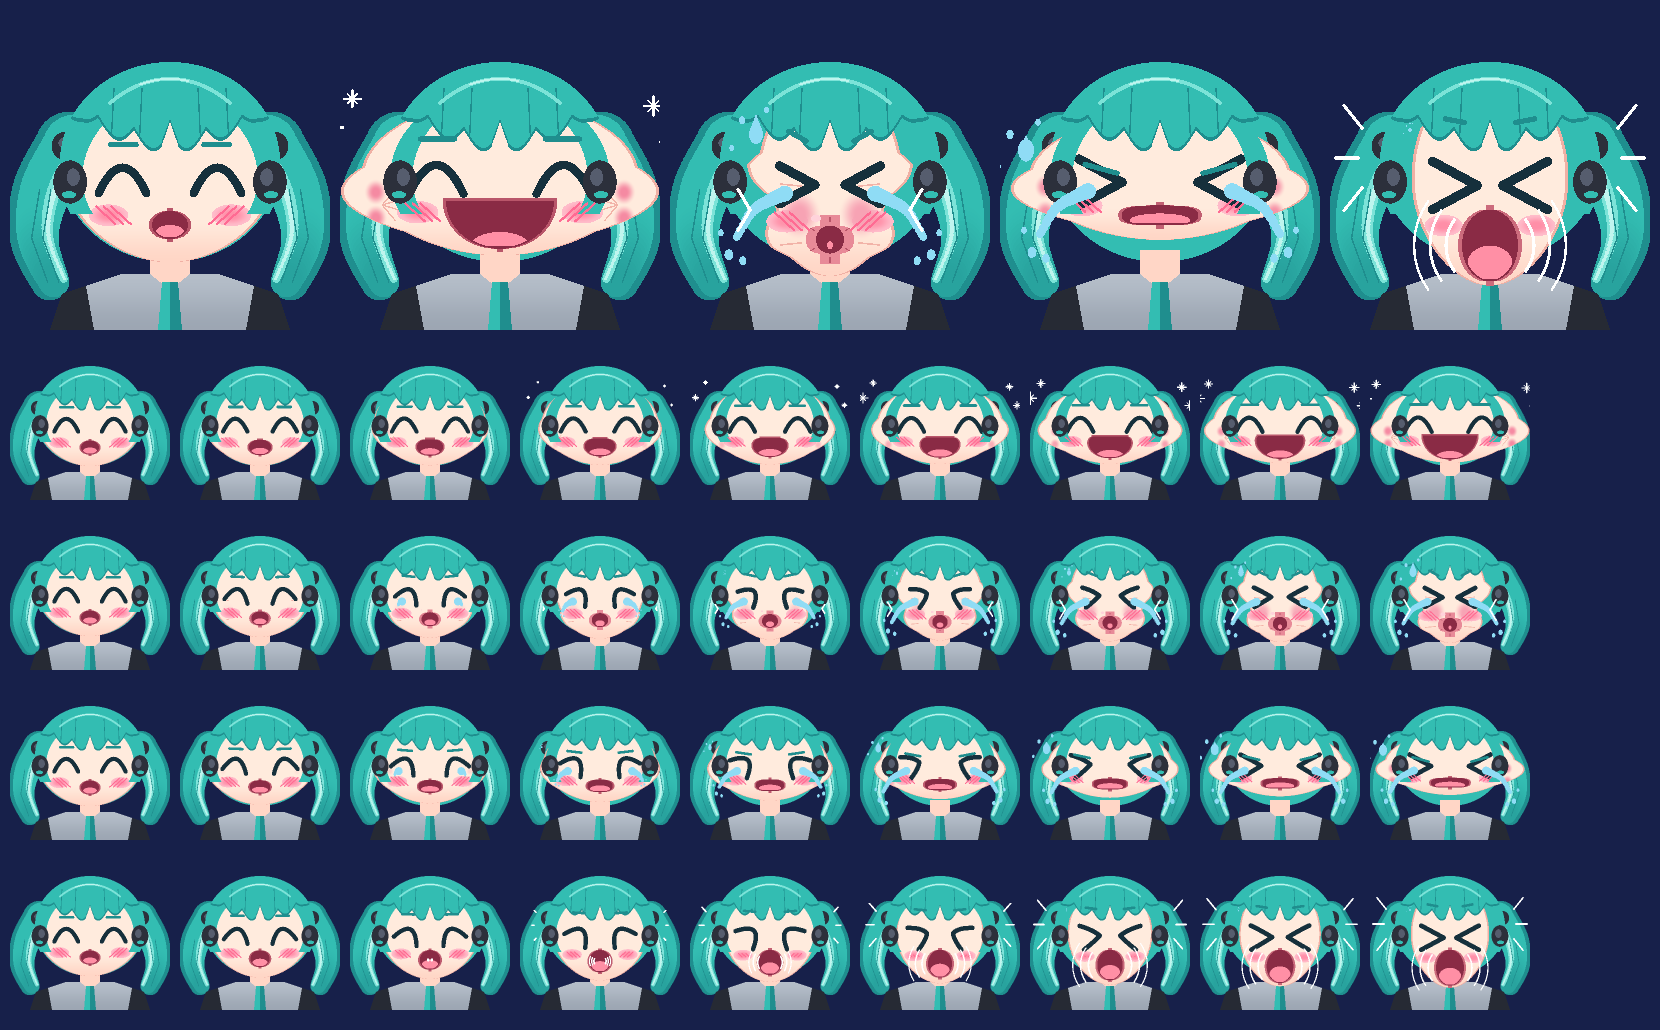
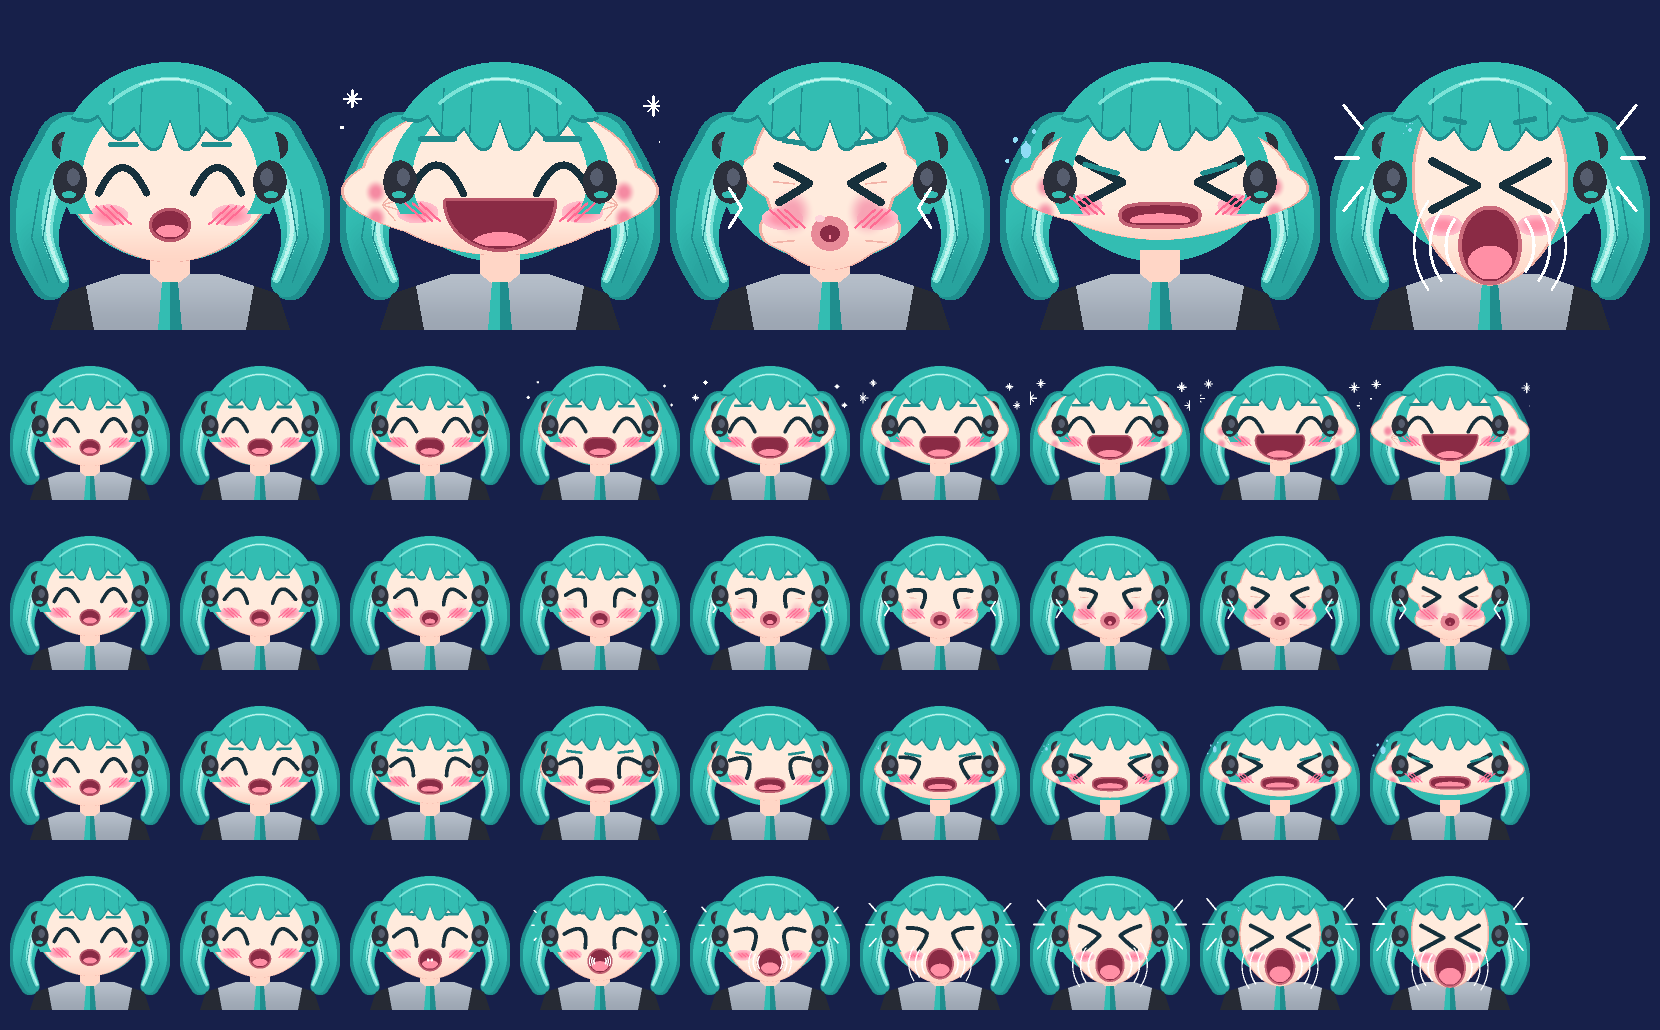
ぶにゅっとミク build 9: 押さえる表情(う・え)を泣かせず、可愛く
- う・え から涙を外す(泣くまで押し込まない)。う: 顔の細さを控えめに、目はやわらかいくの字、赤面の斜線、ちゅっとした丸い唇(つや付き)
- 唇の輪を、口の形を全方向へ均等にふくらませた形に修正(厚い唇が上下に棒状にのびて「＋」に見えていた)
- 涙の機能自体は残す(デザインで指定すれば出る)。本編のデザインでは う・え は涙なし(テストで固定)
- 唇の輪のテストを追加、デザインシート・README更新(テスト50件)

Claude-Session: https://claude.ai/code/session_01MXw4RQN7Z5c2dP9V8ZrWtj

diff --git a/bunyutto-miku/app/src/face.js b/bunyutto-miku/app/src/face.js
@@ -606,8 +606,18 @@ export class MikuFace {
     };
     // くちびる: すぼめるほど太く明るい色に
     const ring = lerpC(C.lipD, C.lip, Math.min(1, (g.pad - M.ringBase) / M.ringRange));
-    r.rows(top - g.pad, my + h / 2 + g.pad, shape(g.pad), ring);
-    r.rows(top, my + h / 2, shape(0), C.mouthIn);
+    // 唇の輪: 口の形を全方向へ均等に pad だけふくらませた形(厚い唇でも、上下に棒状にのびたりしない)
+    const base = shape(0);
+    const OFFS = 16;
+    for (let k = 0; k < OFFS; k++) {
+      const a = (k / OFFS) * Math.PI * 2;
+      const ox = Math.cos(a) * g.pad, oy = Math.sin(a) * g.pad;
+      r.rows(top + oy, my + h / 2 + oy, (yc) => {
+        const rr = base(yc - oy);
+        return rr ? [rr[0] + ox, rr[1] + ox] : null;
+      }, ring);
+    }
+    r.rows(top, my + h / 2, base, C.mouthIn);
     // すぼめた唇の縦じわ(放射状の線)と、ぷるんとしたつや
     if (g.wrinkle > 0.05) {
       const Wr = M.wrinkle;

diff --git a/bunyutto-miku/app/src/game.js b/bunyutto-miku/app/src/game.js
@@ -15,7 +15,7 @@ import { SONGS, dataUrl } from "./songs.js";
 import { DemoSource } from "./demo.js";
 import { TextAliveSource } from "./textalive.js";
 
-export const BUILD = 8;
+export const BUILD = 9;
 
 /* 母音ごとの色。ノーツ・ガイド・結果で共通 */
 const VCOL = { a: "#FF7EB6", i: "#FFC93C", u: "#9B7BFF", e: "#38D6CB", o: "#FF6F5E" };

diff --git a/bunyutto-miku/app/index.html b/bunyutto-miku/app/index.html
@@ -111,7 +111,7 @@
   </div>
 </div>
 
-<script>window.BUNYU_BUILD = 8;</script>
+<script>window.BUNYU_BUILD = 9;</script>
 <!-- CDN 依存を避けるため検証済みバージョンを同梱 -->
 <script src="./vendor/axios.min.js"></script>
 <script src="./vendor/textalive-app-api-0.5.2.js"></script>

diff --git a/bunyutto-miku/design/README.md b/bunyutto-miku/design/README.md
@@ -34,6 +34,7 @@
 - **怖く見える要素は入れない**: 鋭いまつ毛、歯、ぎざぎざの前髪、濃い輪郭線、怒り方向の眉。
 - **変形するのは顔(表情・輪郭)だけ**。髪・ツインテール・ヘッドホン・体はピンチで動かない。
 - 表情の変化は**連続的**(オン・オフにしない)。目も口も、値を補間して形そのものが変わる。
+- **押さえる表情(う・え)では泣かせない**(涙は出さない)。「う」は、ぷくっと赤いほっぺと、ちゅっとした丸い唇で可愛く見せる。伸ばす表情(い)は大きな笑顔。
 - 目は**喜ぶ目と、くの字の苦しげな目の2種類だけ**。舌は口の外に出さない。頬は**手を描かず、つままれた/押された跡**で伝える。
 
 ## 座標とパラメータ
